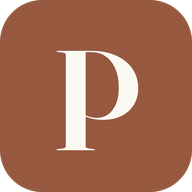
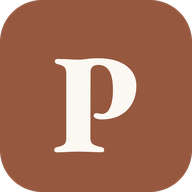
Rozhodnutí #11: písmo C (EB Garamond + Manrope) v oranžové paletě, recenze bez jmen
D1 = C: nadpisy, ceny a značka EB Garamond, text Manrope; barvy beze změny
(kontrast ověřen: min. 4,69:1). Monogram P ve favicon v řezu 800, aby byl čitelný v 16 px.
D2 = bez jmen: podpis „Klientka · Google recenze · měsíc rok“, poznámka pod sekcí,
tlačítko „Všechny recenze na Google“. Pravidlo doplněno do CLAUDE.md.
D3 = H1 beze změny.

Changed region(s): [[0.2812, 0.25, 0.75, 0.8125]]

diff --git a/index.html b/index.html
@@ -78,7 +78,7 @@
 <link rel="preconnect" href="https://fonts.googleapis.com">
 <link rel="preconnect" href="https://fonts.gstatic.com" crossorigin>
 <link rel="preload" as="image" type="image/webp" href="Fotky/main-800.webp" imagesrcset="Fotky/main-800.webp 800w, Fotky/main-1600.webp 1600w" imagesizes="(max-width: 900px) calc(100vw - 32px), 560px">
-<link href="https://fonts.googleapis.com/css2?family=Barlow:ital,wght@0,400;0,500;0,600;0,700;1,500;1,600&family=Fraunces:ital,opsz,wght@0,9..144,500;0,9..144,600;0,9..144,700;1,9..144,500;1,9..144,600&family=Mulish:wght@400;500;600;700;800&display=swap" rel="stylesheet">
+<link href="https://fonts.googleapis.com/css2?family=EB+Garamond:ital,wght@0,500;0,600;0,700;1,500;1,600&family=Manrope:wght@400;500;600;700;800&display=swap" rel="stylesheet">
 <style>
   :root {
     --bg: #F4EBE0;
@@ -101,15 +101,15 @@
   }
   * { box-sizing: border-box; }
   html { scroll-behavior: smooth; scroll-padding-top: 92px; }
-  body { margin: 0; font-family: 'Mulish', sans-serif; color: var(--ink); background: var(--bg); overflow-x: hidden; }
+  body { margin: 0; font-family: 'Manrope', sans-serif; color: var(--ink); background: var(--bg); overflow-x: hidden; }
   ::selection { background: #E7C9B7; color: #372F28; }
   a { color: var(--accent); text-decoration: none; }
   a:hover { color: var(--accent-dark); }
   img { display: block; max-width: 100%; }
   picture { display: block; }
-  /* Náhled: velké nadpisy a ceny ve Fraunces, zbytek stránky zůstává u Barlow/Mulish. */
-  h1, h2 { font-family: 'Fraunces', Georgia, serif; font-optical-sizing: auto; }
-  h3, h4 { font-family: 'Barlow', sans-serif; }
+  /* Písmo: nadpisy, ceny a značka EB Garamond, text Manrope (rozhodnutí #11, D1 = C). */
+  h1, h2 { font-family: 'EB Garamond', Georgia, serif; }
+  h3, h4 { font-family: 'Manrope', sans-serif; font-weight: 700; letter-spacing: -0.01em; }
   a:focus-visible, button:focus-visible, summary:focus-visible { outline: 2px solid var(--accent); outline-offset: 3px; border-radius: 6px; }
   summary { list-style: none; }
   summary::-webkit-details-marker { display: none; }
@@ -134,7 +134,7 @@
   }
   .brandmark { display: flex; align-items: baseline; gap: 9px; min-width: 0; }
   .brandmark .name {
-    font-family: 'Barlow', sans-serif; font-size: clamp(19px, 4vw, 22px);
+    font-family: 'EB Garamond', Georgia, serif; font-size: clamp(19px, 4vw, 22px);
     font-weight: 700; letter-spacing: -0.2px; color: var(--ink); white-space: nowrap;
   }
   .brandmark .tag {
@@ -249,7 +249,7 @@
     backdrop-filter: blur(6px); -webkit-backdrop-filter: blur(6px);
     padding: 13px 20px; border-radius: 14px; box-shadow: 0 10px 26px rgba(120,85,60,0.2);
   }
-  .hero-badge .big { font-family: 'Barlow', sans-serif; font-size: 24px; font-weight: 700; letter-spacing: -0.3px; color: var(--accent); line-height: 1; }
+  .hero-badge .big { font-family: 'EB Garamond', Georgia, serif; font-size: 24px; font-weight: 700; letter-spacing: -0.3px; color: var(--accent); line-height: 1; }
   .hero-badge .small { font-size: 11.5px; color: var(--muted); letter-spacing: 1px; text-transform: uppercase; margin-top: 4px; font-weight: 600; }
 
   /* ===== Value strip ===== */
@@ -259,7 +259,7 @@
     border-top: 1px solid var(--line); border-bottom: 1px solid var(--line);
   }
   .values > div { background: var(--bg); padding: clamp(24px, 3vw, 38px) clamp(20px, 3vw, 40px); }
-  .values .icon { font-family: 'Barlow', sans-serif; font-size: 32px; color: var(--accent); line-height: 1; }
+  .values .icon { font-family: 'EB Garamond', Georgia, serif; font-size: 32px; color: var(--accent); line-height: 1; }
   .values h3 { font-weight: 600; font-size: 20px; margin: 12px 0 6px; letter-spacing: -0.2px; }
   .values p { font-size: 14.5px; line-height: 1.6; color: var(--body); margin: 0; text-wrap: pretty; }
 
@@ -282,7 +282,7 @@
   /* ===== Brand tabs ===== */
   .tabs { display: flex; justify-content: center; gap: 10px; margin: 32px 0 40px; flex-wrap: wrap; }
   .tab {
-    font-family: 'Mulish', sans-serif; font-weight: 700; font-size: 14.5px;
+    font-family: 'Manrope', sans-serif; font-weight: 700; font-size: 14.5px;
     min-height: 46px; padding: 0 22px; border-radius: 100px; cursor: pointer;
     transition: all .2s ease;
     background: var(--bg-soft); color: var(--muted-2); border: 1px solid #E0CDB8; box-shadow: none;
@@ -322,7 +322,7 @@
     display: flex; align-items: center; flex-wrap: wrap; justify-content: space-between;
     gap: 12px; margin-top: auto; padding-top: 20px; border-top: 1px solid var(--line-inner);
   }
-  .price { font-family: 'Fraunces', Georgia, serif; font-size: 28px; font-weight: 600; letter-spacing: -0.02em; color: var(--ink); }
+  .price { font-family: 'EB Garamond', Georgia, serif; font-size: 28px; font-weight: 600; letter-spacing: -0.02em; color: var(--ink); }
 
   /* ===== Process ===== */
   .process { background: var(--bg-section); padding: clamp(48px, 7vw, 92px) clamp(16px, 4vw, 64px); }
@@ -338,7 +338,7 @@
   .steps .n {
     flex-shrink: 0; width: 32px; height: 32px; display: grid; place-items: center;
     border-radius: 50%; background: #F1DFCD; color: var(--accent-dark);
-    font-family: 'Barlow', sans-serif; font-size: 18px; font-weight: 700;
+    font-family: 'EB Garamond', Georgia, serif; font-size: 18px; font-weight: 700;
   }
   .steps .text { font-size: 15px; line-height: 1.5; color: var(--ink-soft); padding-top: 5px; text-wrap: pretty; }
 
@@ -515,7 +515,7 @@
     max-width: 1080px; margin: 0 auto; display: flex; flex-wrap: wrap;
     gap: 12px 20px; align-items: center; justify-content: space-between;
   }
-  .footer-inner .name { font-family: 'Barlow', sans-serif; font-size: 19px; font-weight: 700; letter-spacing: -0.2px; color: var(--bg); }
+  .footer-inner .name { font-family: 'EB Garamond', Georgia, serif; font-size: 19px; font-weight: 700; letter-spacing: -0.2px; color: var(--bg); }
   .footer-inner .tag { font-size: 11px; letter-spacing: 2px; text-transform: uppercase; color: var(--accent-light); font-weight: 700; }
   .footer-meta { font-size: 13.5px; color: #B3A493; }
   .footer-meta a { color: var(--accent-light); font-weight: 700; }
@@ -533,7 +533,7 @@
   }
   .g-mark { display: inline-flex; align-items: center; gap: 8px; font-weight: 800; color: var(--ink); font-size: 16px; }
   .g-mark svg { width: 20px; height: 20px; display: block; }
-  .review-score { font-family: 'Barlow', sans-serif; font-size: 28px; font-weight: 700; letter-spacing: -0.4px; line-height: 1; }
+  .review-score { font-family: 'EB Garamond', Georgia, serif; font-size: 28px; font-weight: 700; letter-spacing: -0.4px; line-height: 1; }
   .review-count { font-size: 14.5px; font-weight: 700; color: var(--muted-2); }
   .stars { display: inline-flex; gap: 2px; line-height: 1; }
   .stars .star { color: #D9CBBC; font-size: 18px; }
@@ -548,16 +548,9 @@
     background: var(--bg-card); border: 1px solid var(--line-card); border-radius: 20px;
     padding: 20px 22px;
   }
-  .review-avatar {
-    flex: 0 0 44px; width: 44px; height: 44px; border-radius: 50%;
-    display: grid; place-items: center;
-    background: var(--accent); color: var(--bg-card);
-    font-family: 'Barlow', sans-serif; font-weight: 700; font-size: 18px;
-  }
   .review-body { min-width: 0; }
-  .review-name { font-weight: 800; font-size: 16px; color: var(--ink); }
   .review-meta { display: flex; align-items: center; flex-wrap: wrap; gap: 8px 12px; margin-top: 4px; }
-  .review-date { font-size: 13px; color: var(--muted); }
+  .review-sign { margin: 12px 0 0; font-size: 13.5px; font-weight: 700; color: var(--muted); }
   .review-text { margin: 10px 0 0; font-size: 15px; line-height: 1.6; color: var(--body); text-wrap: pretty; white-space: pre-line; }
   .review-text.is-clamped { display: -webkit-box; -webkit-line-clamp: 6; -webkit-box-orient: vertical; overflow: hidden; }
   .review-more {
@@ -566,6 +559,7 @@
     min-height: 44px;
   }
   .review-more:hover { color: var(--accent-dark); }
+  .reviews-note { text-align: center; margin: 16px 0 0; font-size: 13px; color: var(--muted); }
   .reviews-more { display: flex; flex-wrap: wrap; justify-content: center; gap: 12px; margin: 28px 0 0; }
 
   /* ===== WhatsApp ===== */
@@ -633,6 +627,13 @@
       transition-duration: .01ms !important;
     }
   }
+
+  /* Písmo C: větší nadpisy (Garamond je užší než Fraunces). */
+  .hero-copy h1 { font-weight: 600; letter-spacing: -0.01em; font-size: clamp(42px, 6.8vw, 80px); line-height: 1.0; }
+  .section-head h2, .process-copy h2, .contact-copy h2 { font-weight: 600; letter-spacing: -0.01em; font-size: clamp(34px, 4.8vw, 56px); line-height: 1.05; }
+  .brandmark .name, .footer-inner .name { font-size: clamp(22px, 4.4vw, 26px); font-weight: 700; letter-spacing: 0; }
+  .price { font-size: 32px; font-weight: 700; }
+  .eyebrow { letter-spacing: 3.2px; }
 </style>
 </head>
 <body>
@@ -1066,7 +1067,7 @@
 <!--
   Recenze z Google profilu https://maps.app.goo.gl/9VuxbkKFMu3voxbM8
   16. 10. 2026 přečteny doslova z veřejných dat Map (průměr 5,0 ze 3 recenzí).
-  Jméno zkráceno na křestní + iniciálu. Text se nesmí upravovat ani zkracovat;
+  Bez jmen autorů (rozhodnutí #11, D2), podpis „Klientka · Google recenze“. Text se nesmí upravovat ani zkracovat;
   dlouhé recenze se jen vizuálně sbalí s tlačítkem „Číst celou recenzi“.
   Bez aggregateRating ve schema.org: Google hvězdičky z vlastních recenzí
   firmy na jejím webu nezobrazuje (self-serving reviews).
@@ -1080,8 +1081,9 @@
   <div class="review-cards" data-cards></div>
   <p class="reviews-more">
     <a class="btn btn-outline btn-process" href="https://search.google.com/local/writereview?placeid=ChIJ10bNiKSUC0cRYVidi0JsOM4" target="_blank" rel="noopener">Napsat recenzi na Google</a>
-    <a class="btn btn-outline btn-process" href="https://maps.app.goo.gl/9VuxbkKFMu3voxbM8" target="_blank" rel="noopener">Všechny recenze</a>
+    <a class="btn btn-outline btn-process" href="https://maps.app.goo.gl/9VuxbkKFMu3voxbM8" target="_blank" rel="noopener">Všechny recenze na Google</a>
   </p>
+  <p class="reviews-note">Výběr z recenzí na Google. Neověřujeme, zda autoři službu využili.</p>
 </section>
 
 <!-- ===== CONTACT / BOOKING ===== -->
@@ -1231,20 +1233,19 @@
   /* Recenze. Prázdné pole = sekce #recenze zůstane skrytá.
      Doplňte jen text přečtený doslova z Google profilu, nic nevymýšlejte.
      Příklad položky (nechat zakomentované, dokud text není ověřený):
-     { name: "Jana", stars: 5, date: "březen 2026", text: "Doslovný text recenze." }
+     { stars: 5, date: "březen 2026", text: "Doslovný text recenze." }
      Další karty = další objekty ve stejném poli. */
   var RECENZE = [
-    { name: "Daniela F.", stars: 5, date: "říjen 2026", text: "Paní Radku mohu z celého srdce jen doporučit! ❤\nKaždá návštěva je nejen skvělou péčí o pleť, ale také chvilka klidu a relaxace. Je nesmírně milá, má příjemné vystupování a člověk se u ní cítí dobře.\n\nVelmi oceňuji její pečlivost, profesionalitu a individuální přístup. Je vidět, že svou práci opravdu dělá s láskou. Výsledky její práce jsou navíc naprosto úžasné – moje pleť se díky pravidelným návštěvám velmi zlepšila. 🌟\n\nObrovským přínosem pro mě bylo také to, že jsem díky ní mnohem lépe pochopila, jak o svou pleť správně pečovat i doma. Otevřela mi oči v mnoha věcech, které jsem dříve nevěděla, nebo podceňovala.\n\nJsem moc ráda, že jsem paní Radku objevila, a na každou další návštěvu se těším. Pokud hledáte paní kosmetičku, která spojuje lidskou laskavost, profesionalitu a skutečné výsledky, jste na správném místě. Děkuji za všechnu péči a za to, že se díky Vám moje pleť i já cítíme mnohem lépe. ❤" },
-    { name: "Jana F.", stars: 5, date: "říjen 2026", text: "K paní Radce jsem dostala doporučení od mé sestry a hned po první návštěvě jsem byla nadšená z jejího individuálního přístupu a kvalitní kosmetiky na míru. Vždy odcházím s rozjasněným obličejem a jsem kompletně zrelaxovaná. Vřele doporučuji všem kdo hledají kvalitní péči a příjemný přístup." },
-    { name: "Alena S.", stars: 5, date: "září 2026", text: "K paní Radce chodím už několik let a to hovoří samo za sebe. Oceňuji individuální a empatický přístup. Vřele doporučuji" }
+    { stars: 5, date: "říjen 2026", text: "Paní Radku mohu z celého srdce jen doporučit! ❤\nKaždá návštěva je nejen skvělou péčí o pleť, ale také chvilka klidu a relaxace. Je nesmírně milá, má příjemné vystupování a člověk se u ní cítí dobře.\n\nVelmi oceňuji její pečlivost, profesionalitu a individuální přístup. Je vidět, že svou práci opravdu dělá s láskou. Výsledky její práce jsou navíc naprosto úžasné – moje pleť se díky pravidelným návštěvám velmi zlepšila. 🌟\n\nObrovským přínosem pro mě bylo také to, že jsem díky ní mnohem lépe pochopila, jak o svou pleť správně pečovat i doma. Otevřela mi oči v mnoha věcech, které jsem dříve nevěděla, nebo podceňovala.\n\nJsem moc ráda, že jsem paní Radku objevila, a na každou další návštěvu se těším. Pokud hledáte paní kosmetičku, která spojuje lidskou laskavost, profesionalitu a skutečné výsledky, jste na správném místě. Děkuji za všechnu péči a za to, že se díky Vám moje pleť i já cítíme mnohem lépe. ❤" },
+    { stars: 5, date: "říjen 2026", text: "K paní Radce jsem dostala doporučení od mé sestry a hned po první návštěvě jsem byla nadšená z jejího individuálního přístupu a kvalitní kosmetiky na míru. Vždy odcházím s rozjasněným obličejem a jsem kompletně zrelaxovaná. Vřele doporučuji všem kdo hledají kvalitní péči a příjemný přístup." },
+    { stars: 5, date: "září 2026", text: "K paní Radce chodím už několik let a to hovoří samo za sebe. Oceňuji individuální a empatický přístup. Vřele doporučuji" }
   ];
 
   (function () {
     var root = document.getElementById('recenze');
     if (!root) return;
     var polozky = RECENZE.filter(function (r) {
-      return r && typeof r.name === 'string' && r.name.trim() &&
-        typeof r.text === 'string' && r.text.trim() &&
+      return r && typeof r.text === 'string' && r.text.trim() &&
         typeof r.stars === 'number' && r.stars >= 1 && r.stars <= 5;
     });
     if (!polozky.length) return;
@@ -1268,13 +1269,9 @@
 
     polozky.forEach(function (r, i) {
       var card = el('article', 'review-card');
-      var avatar = el('div', 'review-avatar', r.name.trim().charAt(0).toLocaleUpperCase('cs'));
-      avatar.setAttribute('aria-hidden', 'true');
       var body = el('div', 'review-body');
-      body.appendChild(el('div', 'review-name', r.name.trim()));
       var meta = el('div', 'review-meta');
       meta.appendChild(hvezdicky(r.stars));
-      if (typeof r.date === 'string' && r.date.trim()) meta.appendChild(el('span', 'review-date', r.date.trim()));
       body.appendChild(meta);
       var text = el('p', 'review-text', r.text.trim());
       body.appendChild(text);
@@ -1294,7 +1291,10 @@
         });
         body.appendChild(more);
       }
-      card.appendChild(avatar);
+      /* Bez jmen autorů (rozhodnutí #11, D2): jméno + text je dohledatelný osobní údaj. */
+      var podpis = 'Klientka · Google recenze';
+      if (typeof r.date === 'string' && r.date.trim()) podpis += ' · ' + r.date.trim();
+      body.appendChild(el('p', 'review-sign', podpis));
       card.appendChild(body);
       cards.appendChild(card);
     });

diff --git a/CLAUDE.md b/CLAUDE.md
@@ -29,7 +29,7 @@ Kontrola před commitem: `grep -n -i -E "openingHours|otevírací" index.html` m
 
 ## Recenze
 
-Text recenzí z Google profilu se přebírá **doslova** (pole `RECENZE` na konci `index.html`), nic se nezkracuje ani neupravuje. Do schema.org se nedává `aggregateRating`: Google hvězdičky z vlastních recenzí firmy na jejím webu nezobrazuje.
+Text recenzí z Google profilu se přebírá **doslova** (pole `RECENZE` na konci `index.html`), nic se nezkracuje ani neupravuje. **Bez jmen autorů** (ani zkrácených, jde o dohledatelný osobní údaj); karta je podepsaná „Klientka · Google recenze · měsíc rok“. Jméno jen se souhlasem klientky. *(Grok/Design UX, #11, 2026-10-16)* Do schema.org se nedává `aggregateRating`: Google hvězdičky z vlastních recenzí firmy na jejím webu nezobrazuje.
 
 ## Popisky produktů a ošetřujících úkonů
 
